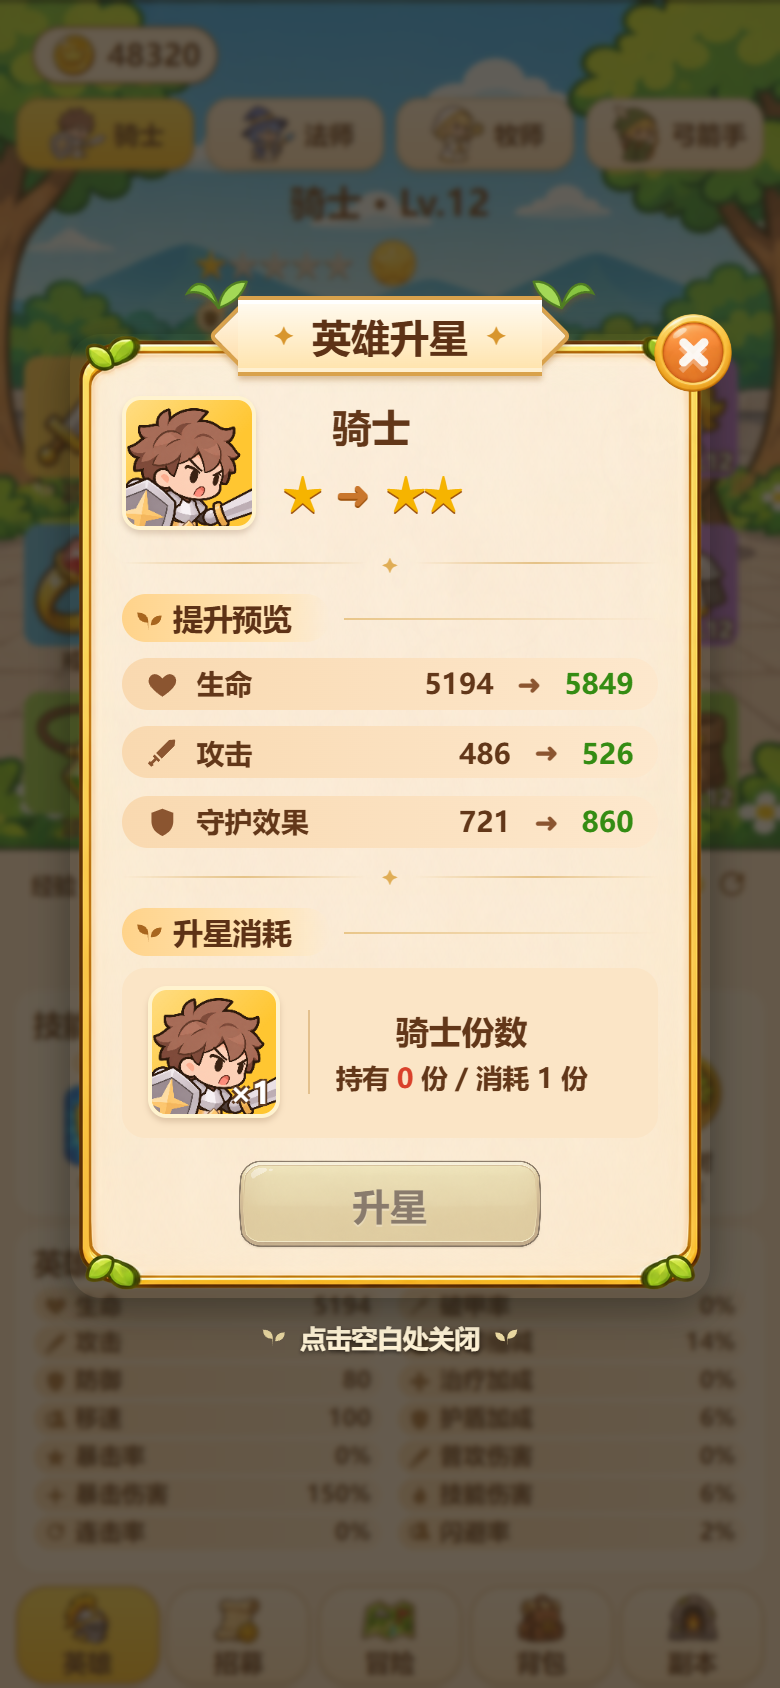
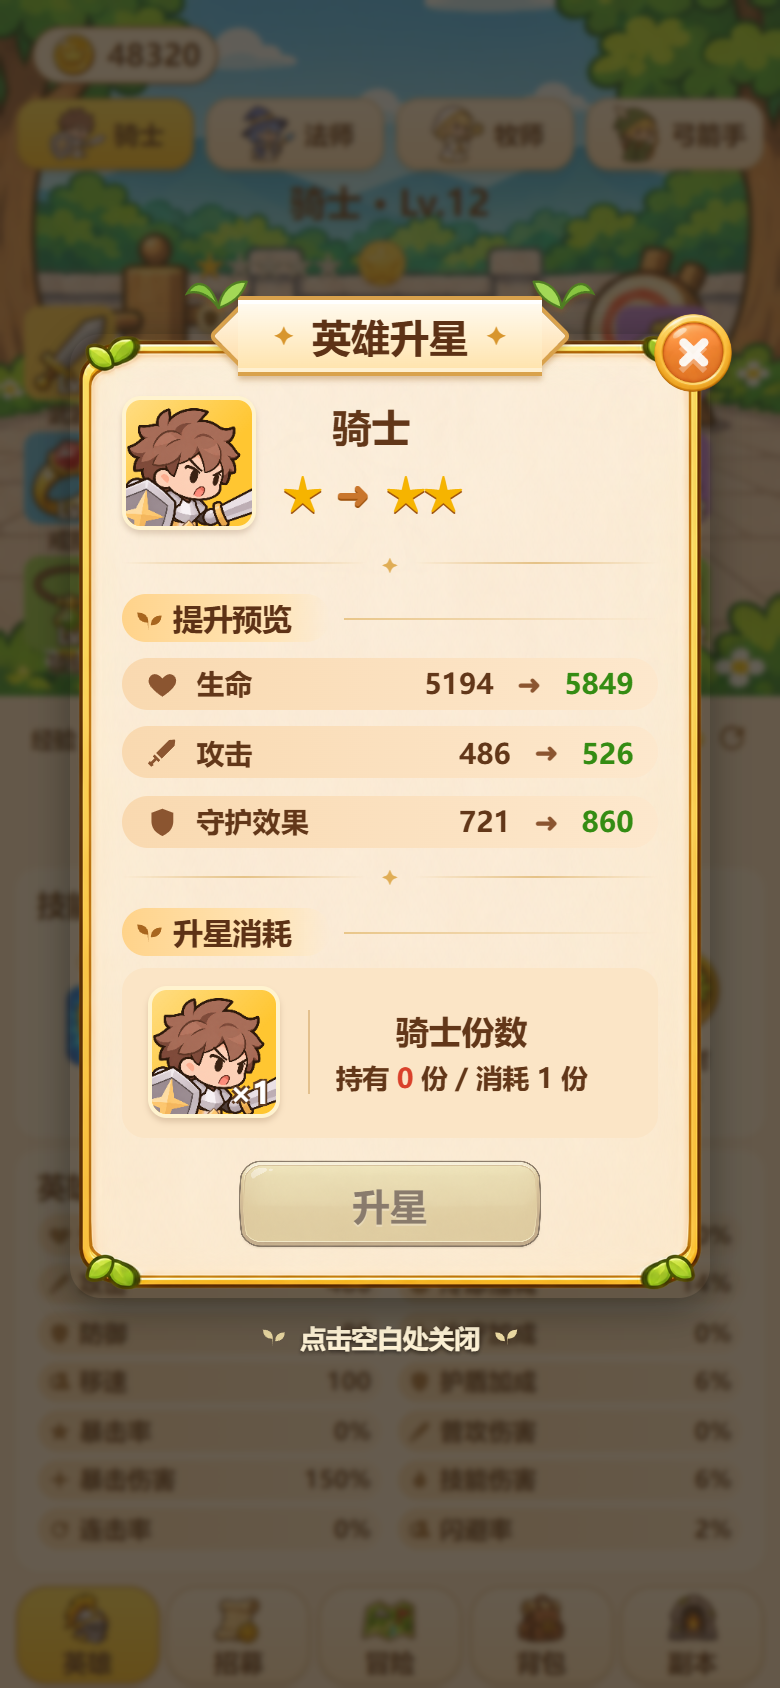
fix: rebalance hero page spacing and remove atlas seam

diff --git a/assets/scripts/SecondEditionStyles.ts b/assets/scripts/SecondEditionStyles.ts
@@ -748,7 +748,7 @@ html,body{background:#263b2c!important}
 #s6-v2 .hero-page>.v2-nav{margin-top:0;flex-shrink:0;padding-top:1.5cqw;bottom:0;padding-bottom:max(1.5cqw,env(safe-area-inset-bottom,0px))}
 
 /* One-screen hero composition: fixed controls, flexible illustrated stage. */
-#s6-v2 .hero-page{display:grid;grid-template-rows:8cqw 9.2cqw minmax(0,1fr) 5cqw 8cqw 29cqw 44cqw 13.5cqw;gap:1.5cqw;overflow:hidden;padding:max(12px,env(safe-area-inset-top,0px)) 2cqw max(0px,env(safe-area-inset-bottom,0px));background-image:linear-gradient(transparent,#fce7ce 24cqw),var(--scene);background-size:100% 100%,100% auto}
+#s6-v2 .hero-page{display:grid;--hero-room:max(0px,calc(100dvh - 185cqw - env(safe-area-inset-top,0px)));grid-template-rows:8cqw 9.2cqw minmax(0,1fr) 7cqw 10cqw calc(29cqw + var(--hero-room)*.18) calc(44cqw + var(--hero-room)*.32) 13.5cqw;gap:1.5cqw;overflow:hidden;padding:max(12px,env(safe-area-inset-top,0px)) 2cqw max(0px,env(safe-area-inset-bottom,0px));background-image:linear-gradient(transparent,#fce7ce 24cqw),var(--scene);background-size:100% 100%,100% auto}
 #s6-v2 .hero-page>.wallet{min-height:0;margin:0 1cqw;align-self:center}
 #s6-v2 .hero-page .hero-tabs button{height:9.2cqw;font-size:3.2cqw}
 #s6-v2 .hero-page .hero-stage{height:auto;min-height:0;max-height:none;margin:0 -2cqw;container-type:size;background-size:cover;background-position:center bottom;overflow:hidden}
@@ -759,14 +759,14 @@ html,body{background:#263b2c!important}
 #s6-v2 .hero-stage .roles{position:absolute;left:25%;top:15cqw;height:5cqw;justify-content:flex-start;font-size:3.1cqw;gap:.8cqw}
 #s6-v2 .hero-stage .hero-role-icon{width:4cqw;height:4cqw}
 #s6-v2 .hero-stage .hero-role-icon .ico{width:2.8cqw;height:2.8cqw}
-#s6-v2 .hero-stage .hero-figure{width:48%;height:65%;bottom:6%;left:50%;object-fit:contain}
-#s6-v2 .hero-stage .equipment-left,#s6-v2 .hero-stage .equipment-right{top:25%;bottom:1%;width:18%;padding:0;display:grid;grid-template-rows:repeat(3,minmax(0,1fr));gap:1cqh}
+#s6-v2 .hero-stage .hero-figure{width:48%;height:65%;bottom:11cqw;left:50%;object-fit:contain}
+#s6-v2 .hero-stage .equipment-left,#s6-v2 .hero-stage .equipment-right{top:24%;bottom:3cqw;width:18%;padding:0;display:grid;grid-template-rows:repeat(3,minmax(0,1fr));gap:1cqh}
 #s6-v2 .hero-stage .equipment-left{left:3%}#s6-v2 .hero-stage .equipment-right{right:3%}
 #s6-v2 .hero-stage .equipment-slot{height:100%;gap:.3cqw;justify-content:center;align-items:center}
 #s6-v2 .hero-stage .equipment-slot .gear-tile{width:min(16cqw,18cqh);height:min(16cqw,18cqh)}
 #s6-v2 .hero-stage .equipment-slot small{height:3cqw;line-height:3cqw;font-size:2.8cqw}
 #s6-v2 .hero-stage .gear-level{font-size:2.8cqw}
-#s6-v2 .hero-stage .formation-link{height:5.2cqw;min-height:0;width:16%;font-size:2.5cqw;bottom:.6%;padding:0 .5cqw}
+#s6-v2 .hero-stage .formation-link{height:5.2cqw;min-height:0;width:16%;font-size:2.5cqw;bottom:3cqw;padding:0 .5cqw}
 #s6-v2 .hero-stage .formation-link .ico{width:3cqw;height:3cqw}
 #s6-v2 .hero-page>.experience{padding:0 2cqw;min-height:0}
 #s6-v2 .hero-page .experience-reset{width:4.4cqw;height:4.4cqw;min-height:0}
@@ -788,7 +788,21 @@ html,body{background:#263b2c!important}
 #s6-v2 .hero-page>.v2-nav img{width:7cqw;height:7cqw}
 /* One continuous illustration behind resources, tabs, hero and equipment. */
 #s6-v2 .hero-page{position:relative;background:#fce7ce!important}
-#s6-v2 .hero-page::before{content:'';position:absolute;inset:0 0 auto;height:calc(100% - 107.5cqw - env(safe-area-inset-bottom,0px));background-image:var(--scene);background-size:cover;background-position:center bottom;pointer-events:none}
+#s6-v2 .hero-page::before{content:'';position:absolute;inset:0 0 auto;height:calc(100% - 111.5cqw - var(--hero-room)*.5 - env(safe-area-inset-bottom,0px));background-image:var(--scene);background-size:cover;background-position:center bottom;pointer-events:none}
 #s6-v2 .hero-page>*{z-index:1}
 #s6-v2 .hero-page .hero-stage{background-image:none!important}
+#s6-v2 .hero-page>.skills-card,#s6-v2 .hero-page>.attributes{display:flex;flex-direction:column;padding:2.5cqw}
+#s6-v2 .hero-page .hero-skills{flex:1;align-items:center}
+#s6-v2 .hero-page .hero-attribute-grid{flex:1;grid-template-rows:repeat(7,minmax(0,1fr));gap:1cqw 2cqw}
+#s6-v2 .hero-page .hero-attribute-grid>div{min-height:0}
+#s6-v2 .hero-page .attributes .stat-row{height:100%;min-height:0;font-size:3.1cqw}
+#s6-v2 .hero-page>.experience{align-items:center}
+#s6-v2 .hero-page>.page-actions{align-items:flex-start}
+#s6-v2 .hero-page>.page-actions button{height:8cqw}
+@media(max-height:700px){
+ #s6-v2 .hero-page .hero-attribute-grid{gap:.5cqw 2cqw}
+ #s6-v2 .hero-stage .hero-figure{height:48%;bottom:7cqw}
+}
+
+
 `;

diff --git a/assets/scripts/SecondEditionUI.ts b/assets/scripts/SecondEditionUI.ts
@@ -67,7 +67,7 @@ export class SecondEditionUI{
  private crop(t:Texture2D,x:number,y:number,w:number,h:number){const canvas=document.createElement('canvas');canvas.width=w;canvas.height=h;const ctx=canvas.getContext('2d')!;const img:any=t.image.data;ctx.drawImage(img,x,y,w,h,0,0,w,h);return canvas.toDataURL('image/png');}
  private fitArt(source:CanvasImageSource,width:number,height:number,padding=.06){const raw=document.createElement('canvas');raw.width=width;raw.height=height;const ctx=raw.getContext('2d')!;ctx.drawImage(source,0,0,width,height);const pixels=ctx.getImageData(0,0,width,height).data;let left=width,top=height,right=0,bottom=0;for(let y=0;y<height;y++)for(let x=0;x<width;x++)if(pixels[(y*width+x)*4+3]>32){left=Math.min(left,x);right=Math.max(right,x);top=Math.min(top,y);bottom=Math.max(bottom,y);}if(left>right)return raw.toDataURL();const out=document.createElement('canvas');out.width=out.height=256;const c=out.getContext('2d')!,w=right-left+1,h=bottom-top+1,scale=256*(1-padding*2)/Math.max(w,h);c.drawImage(raw,left,top,w,h,(256-w*scale)/2,(256-h*scale)/2,w*scale,h*scale);return out.toDataURL();}
  private prepareAtlas(t:Record<string,Texture2D>){
-  const bg=t['v2-backgrounds'];for(let i=0;i<6;i++)this.urls['scene'+i]=this.crop(bg,i%2*bg.width/2,Math.floor(i/2)*bg.height/3,bg.width/2,bg.height/3);
+  const bg=t['v2-backgrounds'];for(let i=0;i<6;i++){const inset=i===1?4:0;this.urls['scene'+i]=this.crop(bg,i%2*bg.width/2+inset,Math.floor(i/2)*bg.height/3+inset,bg.width/2-inset*2,bg.height/3-inset*2);}
   for(const name of ['hero-knight','hero-mage','hero-priest','hero-archer']){const a=t[name];this.urls[name]=this.fitArt(a.image.data as CanvasImageSource,a.width,a.height);}
   const monsters=t['monsters-4'];for(let i=0;i<4;i++)this.urls['monster'+i]=this.crop(monsters,i%2*monsters.width/2,Math.floor(i/2)*monsters.height/2,monsters.width/2,monsters.height/2);
   const icons=t['v2-icons'];for(let i=0;i<9;i++){const canvas=document.createElement('canvas');canvas.width=icons.width/3;canvas.height=icons.height/3;canvas.getContext('2d')!.drawImage(icons.image.data as CanvasImageSource,i%3*canvas.width,Math.floor(i/3)*canvas.height,canvas.width,canvas.height,0,0,canvas.width,canvas.height);this.urls['icon'+i]=this.fitArt(canvas,canvas.width,canvas.height,.09);}

diff --git a/docs/产品文档.md b/docs/产品文档.md
@@ -970,3 +970,11 @@
 - 十四项属性全部读取战斗数据。装备新增可选战斗词条，旧装备保持原值，新掉落按品质生成2%/4%/6%/8%单词条测试配置；详情与升级页展示，突破时增加15%，普通升级保持。存档验证与深复制涵盖词条，旧档兼容。
 - 暴击基础150%倍率，连击为同一次普攻两段合并伤害；普攻/技能伤害独立增幅，破甲减少怪物护甲，测试护甲为每波增加2、上限10000；闪避免除伤害且不消耗护盾；冷却缩减作用于两个主动技能，治疗/护盾加成分别作用于实际回复量与容量。概率/破甲/冷却测试上限75%，伤害等加成上限300%；移速沿用行动排序，生命/攻击/防御沿用现有机制。暴击/连击/闪避有飘字，实际扣血和战斗统计一致。
 - 118项模型测试、TypeScript、Cocos浏览器构建校验通过；29界面点击回归与刷新、四组适配尺寸，以及英雄页三组尺寸、词条边界、技能边界、刘海安全区、经验重置与刷新检查通过。实装截图更新至验收HTML及英雄页修订目录。仅本地提交，不推送、不发布；本节数值为测试配置。
+
+
+## 94. 英雄页上下比例与场景接缝修订（2026-11-19）
+
+- 按用户反馈重新分配英雄页空间：长屏额外高度在人物区和下方技能/属性区之间分配，不再全部放大人物展示区；技能与属性面板增加呼吸空间，属性行随可用高度均匀排布。短屏独立收紧行距并保持整屏显示。
+- 编队按钮距场景底部固定3cqw，人物相应上移；经验行与操作行分别安排独立高度，操作按钮按可见边缘与技能面板留白对齐。保留所有培养与存档功能。
+- 黑色接缝来自背景图集切片最外圈的深色像素；训练场切片内缩4源像素，去掉上下左右的图集边缘，不修改原始美术文件。边缘采样已确认底部为场景地面颜色。
+- TypeScript、Cocos构建及104文件校验通过；英雄页390×844、360×640、430×932、模拟47px刘海、编队底距、词条边界、经验重置与刷新检查通过；29界面浏览器回归通过，实装截图已更新。仅本地提交，不推送或发布。
